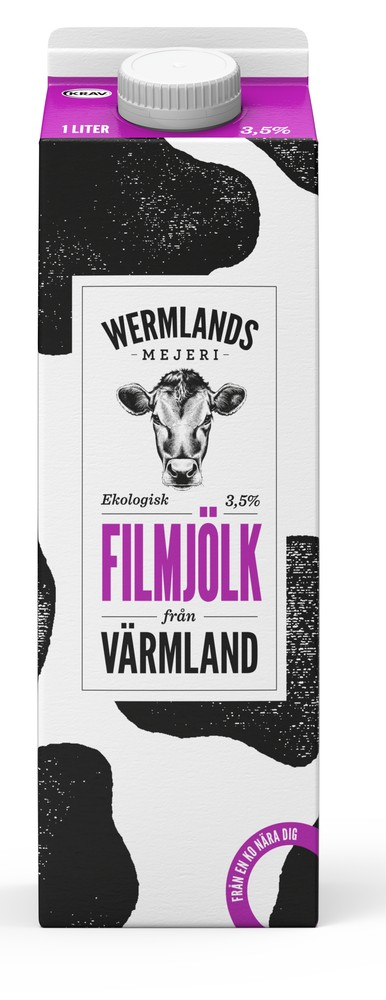
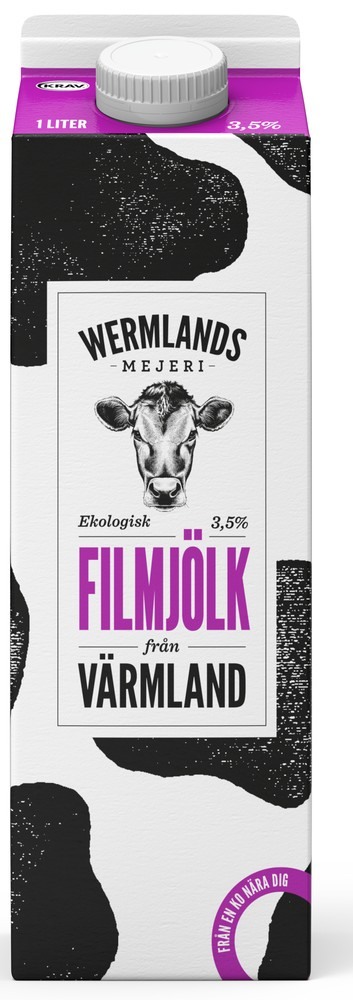
Matcha form och färg mot de riktiga förpackningarna
Byter produktminiatyrerna i resultatlistan från cirklar till rundade
rektanglar i porträttformat som efterliknar förpackningarnas faktiska
silhuett, istället för att beskära bort merparten av en hög
mjölkförpackning i en cirkel.

Extraherar varje produkts egen brytfärg från förpackningsfotot (justerad
för minst 4.5:1 kontrast mot vitt) och använder den genomgående för
produktens rad, progressbar, procentsiffra, "Bästa match"-badge samt
delningsbildens ram och rubrik – så resultatet känns kopplat till just den
produkten. Bytte även den generiska orange UI-accentfärgen mot en neutral
kolsvart nyans som matchar förpackningarnas svartvita typografi och
kofläcksmönster, så att de färgglada produktaccenterna får sticka ut i
resultatet istället för att konkurrera med knappfärgen.

Beskär även om produktfotona något tightare så förpackningen fyller ramen
bättre både i resultatlistan och delningsbilden.

Claude-Session: https://claude.ai/code/session_01ALyMuw843rsRhUzcQdHdwD

diff --git a/js/app.js b/js/app.js
@@ -93,6 +93,7 @@
     results.forEach((r, index) => {
       const li = document.createElement("li");
       li.className = "result-item" + (index === 0 ? " result-item--top" : "");
+      li.style.setProperty("--accent", r.product.color);
 
       const img = document.createElement("img");
       img.src = r.product.image;
@@ -141,7 +142,8 @@
       name: results[0].product.name,
       percent: results[0].percent,
       image: results[0].product.image,
-      tagline: results[0].product.tagline
+      tagline: results[0].product.tagline,
+      color: results[0].product.color
     });
   }
 
@@ -164,6 +166,20 @@
     ctx.drawImage(img, sx, sy, sw, sh, x, y, w, h);
   }
 
+  function roundRectPath(ctx, x, y, w, h, r) {
+    ctx.beginPath();
+    ctx.moveTo(x + r, y);
+    ctx.lineTo(x + w - r, y);
+    ctx.arcTo(x + w, y, x + w, y + r, r);
+    ctx.lineTo(x + w, y + h - r);
+    ctx.arcTo(x + w, y + h, x + w - r, y + h, r);
+    ctx.lineTo(x + r, y + h);
+    ctx.arcTo(x, y + h, x, y + h - r, r);
+    ctx.lineTo(x, y + r);
+    ctx.arcTo(x, y, x + r, y, r);
+    ctx.closePath();
+  }
+
   async function drawShareCard(top) {
     const canvas = els.shareCanvas;
     const ctx = canvas.getContext("2d");
@@ -183,23 +199,31 @@
     ctx.font = "400 32px 'Segoe UI', system-ui, sans-serif";
     ctx.fillText("Wermlands Mejeri", W / 2, 230);
 
+    const cardW = 480;
+    const cardH = 660;
+    const cardX = (W - cardW) / 2;
+    const cardY = 300;
+    const frame = 16;
+
+    ctx.save();
+    ctx.shadowColor = "rgba(44, 35, 32, 0.25)";
+    ctx.shadowBlur = 40;
+    ctx.shadowOffsetY = 14;
+    roundRectPath(ctx, cardX - frame, cardY - frame, cardW + frame * 2, cardH + frame * 2, 32);
+    ctx.fillStyle = top.color || "#201a17";
+    ctx.fill();
+    ctx.restore();
+
     try {
       const img = await loadImage(top.image);
-      const size = 620;
-      const x = (W - size) / 2;
-      const y = 320;
-      ctx.save();
-      ctx.beginPath();
-      ctx.arc(W / 2, y + size / 2, size / 2 + 14, 0, Math.PI * 2);
+      roundRectPath(ctx, cardX, cardY, cardW, cardH, 22);
       ctx.fillStyle = "#ffffff";
       ctx.fill();
-      ctx.restore();
 
       ctx.save();
-      ctx.beginPath();
-      ctx.arc(W / 2, y + size / 2, size / 2, 0, Math.PI * 2);
+      roundRectPath(ctx, cardX, cardY, cardW, cardH, 22);
       ctx.clip();
-      drawImageCover(ctx, img, x, y, size, size);
+      drawImageCover(ctx, img, cardX, cardY, cardW, cardH);
       ctx.restore();
     } catch (e) {
       // Om bilden inte kan laddas, fortsätt utan den.
@@ -210,7 +234,7 @@
     ctx.fillText("Min matchning:", W / 2, 1060);
 
     ctx.font = "800 90px 'Segoe UI', system-ui, sans-serif";
-    ctx.fillStyle = "#c96b1c";
+    ctx.fillStyle = top.color || "#c96b1c";
     ctx.fillText(top.name, W / 2, 1170);
 
     ctx.font = "800 130px 'Segoe UI', system-ui, sans-serif";

diff --git a/css/styles.css b/css/styles.css
@@ -3,8 +3,8 @@
   --color-card: #ffffff;
   --color-text: #2c2320;
   --color-text-muted: #6b5c53;
-  --color-accent: #c96b1c;
-  --color-accent-light: #ffe4c4;
+  --color-accent: #201a17;
+  --color-accent-light: #efe6da;
   --color-border: #eee0d0;
   --radius: 18px;
   --shadow: 0 10px 30px rgba(44, 35, 32, 0.08);
@@ -136,7 +136,7 @@ body::before {
 .btn--primary {
   background: var(--color-accent);
   color: #fff;
-  box-shadow: 0 8px 20px rgba(201, 107, 28, 0.35);
+  box-shadow: 0 8px 20px rgba(32, 26, 23, 0.28);
 }
 
 .btn--secondary {
@@ -233,25 +233,30 @@ body::before {
 
 .result-item {
   display: grid;
-  grid-template-columns: 56px 1fr auto;
+  grid-template-columns: 52px 1fr auto;
   align-items: center;
   gap: 14px;
   padding: 12px;
   border-radius: 14px;
   border: 1px solid var(--color-border);
+  transition: transform 0.2s ease;
 }
 
 .result-item--top {
-  border-color: var(--color-accent);
-  background: var(--color-accent-light);
+  border-color: var(--accent, var(--color-accent));
+  border-width: 1.5px;
+  background: color-mix(in srgb, var(--accent, var(--color-accent)) 9%, #fff);
+  transform: scale(1.015);
 }
 
 .result-item__img {
-  width: 56px;
-  height: 56px;
-  border-radius: 50%;
+  width: 52px;
+  height: 72px;
+  border-radius: 8px;
   object-fit: cover;
   background: #fff;
+  border: 1.5px solid var(--accent, var(--color-border));
+  box-shadow: 0 2px 6px rgba(44, 35, 32, 0.12);
 }
 
 .result-item__info {
@@ -271,7 +276,7 @@ body::before {
   font-size: 11px;
   text-transform: uppercase;
   letter-spacing: 0.05em;
-  background: var(--color-accent);
+  background: var(--accent, var(--color-accent));
   color: #fff;
   padding: 2px 8px;
   border-radius: 999px;
@@ -293,7 +298,7 @@ body::before {
 
 .result-item__bar {
   height: 100%;
-  background: var(--color-accent);
+  background: var(--accent, var(--color-accent));
   border-radius: 999px;
   transition: width 0.6s ease;
 }
@@ -301,7 +306,7 @@ body::before {
 .result-item__percent {
   font-weight: 800;
   font-size: 18px;
-  color: var(--color-accent);
+  color: var(--accent, var(--color-accent));
   white-space: nowrap;
 }
 
@@ -343,11 +348,11 @@ body::before {
   }
 
   .result-item {
-    grid-template-columns: 48px 1fr auto;
+    grid-template-columns: 44px 1fr auto;
   }
 
   .result-item__img {
-    width: 48px;
-    height: 48px;
+    width: 44px;
+    height: 60px;
   }
 }

diff --git a/js/data.js b/js/data.js
@@ -2,52 +2,62 @@
 // Resultatet har medvetet ingen koppling till svaren – matchningen i
 // slutresultatet slumpas fram i js/app.js (computeResults). Frågorna nedan
 // är bara för skojs skull, precis som en riktig valkompass.
+//
+// "color" är hämtad från respektive förpacknings egen brytfärg (bandet vid
+// korken / produktnamnets färg), justerad för att ge minst 4.5:1 kontrast
+// mot både vit bakgrund och vit text ovanpå.
 
 const PRODUCTS = [
   {
     id: "lattmjolk",
     name: "Lättmjölk",
     tagline: "Lätt, luftig och redo för vad som helst.",
-    image: "assets/products/lattmjolk.jpg"
+    image: "assets/products/lattmjolk.jpg",
+    color: "#0f7e98"
   },
   {
     id: "mellanmjolk",
     name: "Mellanmjölk",
     tagline: "Perfekt balans – varken för mycket eller för lite.",
-    image: "assets/products/mellanmjolk.jpg"
+    image: "assets/products/mellanmjolk.jpg",
+    color: "#4e7e1d"
   },
   {
     id: "standardmjolk",
     name: "Standardmjölk",
     tagline: "Den pålitliga klassikern som alltid levererar.",
-    image: "assets/products/standardmjolk.jpg"
+    image: "assets/products/standardmjolk.jpg",
+    color: "#c80a44"
   },
   {
     id: "gradde",
     name: "Grädde",
     tagline: "Festlig, generös och gör allt lite bättre.",
-    image: "assets/products/gradde.jpg"
+    image: "assets/products/gradde.jpg",
+    color: "#d91356"
   },
   {
     id: "filmjolk",
     name: "Filmjölk",
     tagline: "Mysig, syrlig och lite gammaldags på ett bra sätt.",
-    image: "assets/products/filmjolk.jpg"
+    image: "assets/products/filmjolk.jpg",
+    color: "#a32892"
   },
   {
     id: "yoghurtnaturell",
     name: "Yoghurt Naturell",
     tagline: "Fräsch, sund och redo för vad dagen än bjuder.",
-    image: "assets/products/yoghurtnaturell.jpg"
+    image: "assets/products/yoghurtnaturell.jpg",
+    color: "#162b7d"
   },
   {
     id: "yoghurtvanilj",
     name: "Yoghurt Vanilj",
     tagline: "Mjuk, söt och lite extra omtänksam.",
-    image: "assets/products/yoghurtvanilj.jpg"
+    image: "assets/products/yoghurtvanilj.jpg",
+    color: "#936e23"
   }
 ];
-
 const QUESTIONS = [
   {
     text: "Hur bör Värmlands framtid finansieras?",
@@ -203,3 +213,4 @@ const QUESTIONS = [
     ]
   }
 ];
+

diff --git a/README.md b/README.md
@@ -38,9 +38,13 @@ All data ligger i `js/data.js`.
    - `tagline` – kort beskrivande text
    - `image` – sökväg till bild i `assets/products/`, t.ex.
      `assets/products/standardmjolk.jpg`. Bilderna är beskurna produktfoton
-     (porträttformat, vit bakgrund) – behåll samma stil vid byte/tillägg av
-     produkter så att den runda croppen i resultatlistan och delningsbilden
-     ser bra ut.
+     (porträttformat, vit bakgrund, förpackningen fyller nästan hela bilden)
+     – behåll samma stil vid byte/tillägg av produkter så att croppen i
+     resultatlistan och delningsbilden ser bra ut.
+   - `color` – produktens egen brytfärg (hämtad från förpackningens band/
+     produktnamn), används som accentfärg för just den produktens rad,
+     progressbar, badge och delningsbild. Välj en nyans med minst 4.5:1
+     kontrast mot vitt om du byter/lägger till en färg.
 
 2. **Frågor** – redigera `QUESTIONS`-listan. Varje fråga har `text` och en
    lista `options` (bara text, inga poäng/vikter).
@@ -66,9 +70,17 @@ Facebook-story direkt. På skrivbord (eller om Web Share saknas) faller det
 tillbaka på nedladdning av bilden, som knappen **"Ladda ner bild"** också gör
 direkt.
 
-## Notera
+## Design
 
 Produktbilderna i `assets/products/` är riktiga produktfoton, beskurna och
 komprimerade från originalen (5000×3750px) till max 1000px och JPEG för
 snabb inläsning. Kofläcksmönstret (`kospot-pattern.jpg`) används som en
 subtil bakgrundstextur på hela sidan (se `body::before` i `css/styles.css`).
+
+Produktminiatyrerna i resultatlistan är rundade rektanglar (inte cirklar) i
+porträttformat, för att efterlikna förpackningarnas faktiska form istället
+för att beskära bort merparten av en hög mjölkförpackning i en cirkel. Varje
+produkts egna brytfärg (`color` i `js/data.js`) används genomgående för den
+radens ram, progressbar, procentsiffra och "Bästa match"-badge, samt för
+ramen och rubriken i den nedladdningsbara delningsbilden – så att resultatet
+känns kopplat till just den produkten istället för en generisk apphmall.
